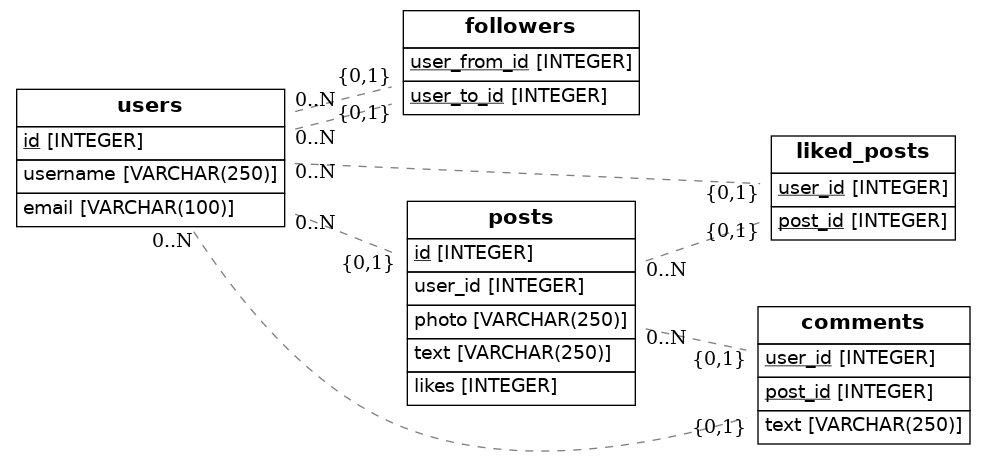
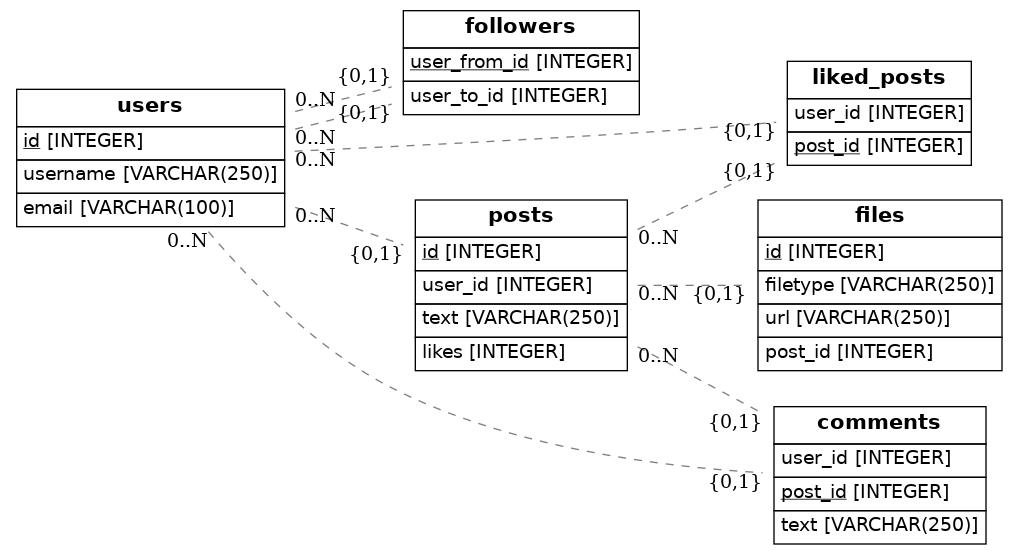
agregada tabla files por la opcion de multiples imagenes en un post

Changed region(s): [[0.0, 0.0, 1.0, 1.0], [0.5178, 0.9803, 0.6091, 1.0], [0.6396, 0.8271, 0.6701, 0.8578]]

diff --git a/src/models.py b/src/models.py
@@ -17,24 +17,30 @@ class User(Base):
 class Follower(Base):
     __tablename__ = 'followers'
     user_from_id = Column(Integer, ForeignKey('users.id'), primary_key=True)
-    user_to_id = Column(Integer, ForeignKey('users.id'), primary_key=True)
+    user_to_id = Column(Integer, ForeignKey('users.id'))
 
 class Post(Base):
     __tablename__ = 'posts'
     id = Column(Integer, primary_key=True)
     user_id = Column(Integer, ForeignKey('users.id'))
-    photo = Column(String(250), nullable=False)
     text = Column(String(250))
     likes = Column(Integer)
 
+class File(Base):
+    __tablename__ = 'files'
+    id = Column(Integer, primary_key=True)
+    filetype = Column(String(250), nullable=False)
+    url = Column(String(250), nullable=False)
+    post_id = Column(Integer, ForeignKey('posts.id'))
+
 class Liked(Base):
     __tablename__ = 'liked_posts'
-    user_id = Column(Integer, ForeignKey('users.id'), primary_key=True)
+    user_id = Column(Integer, ForeignKey('users.id'))
     post_id = Column(Integer, ForeignKey('posts.id'), primary_key=True)
 
 class Comment(Base):
     __tablename__ = 'comments'
-    user_id = Column(Integer, ForeignKey('users.id'), primary_key=True)
+    user_id = Column(Integer, ForeignKey('users.id'))
     post_id = Column(Integer, ForeignKey('posts.id'), primary_key=True)
     text = Column(String(250))
     
